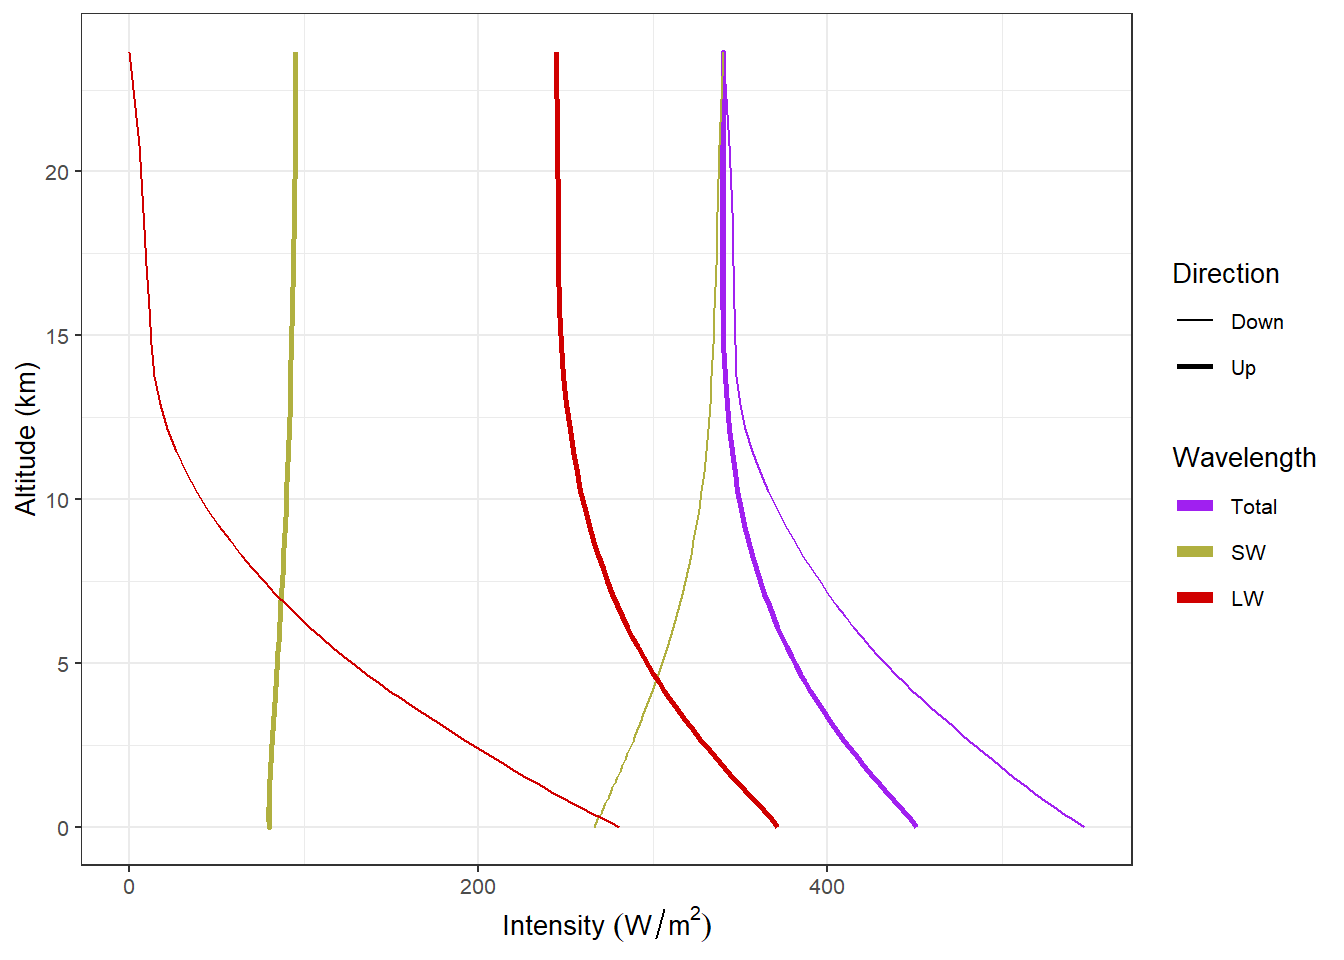
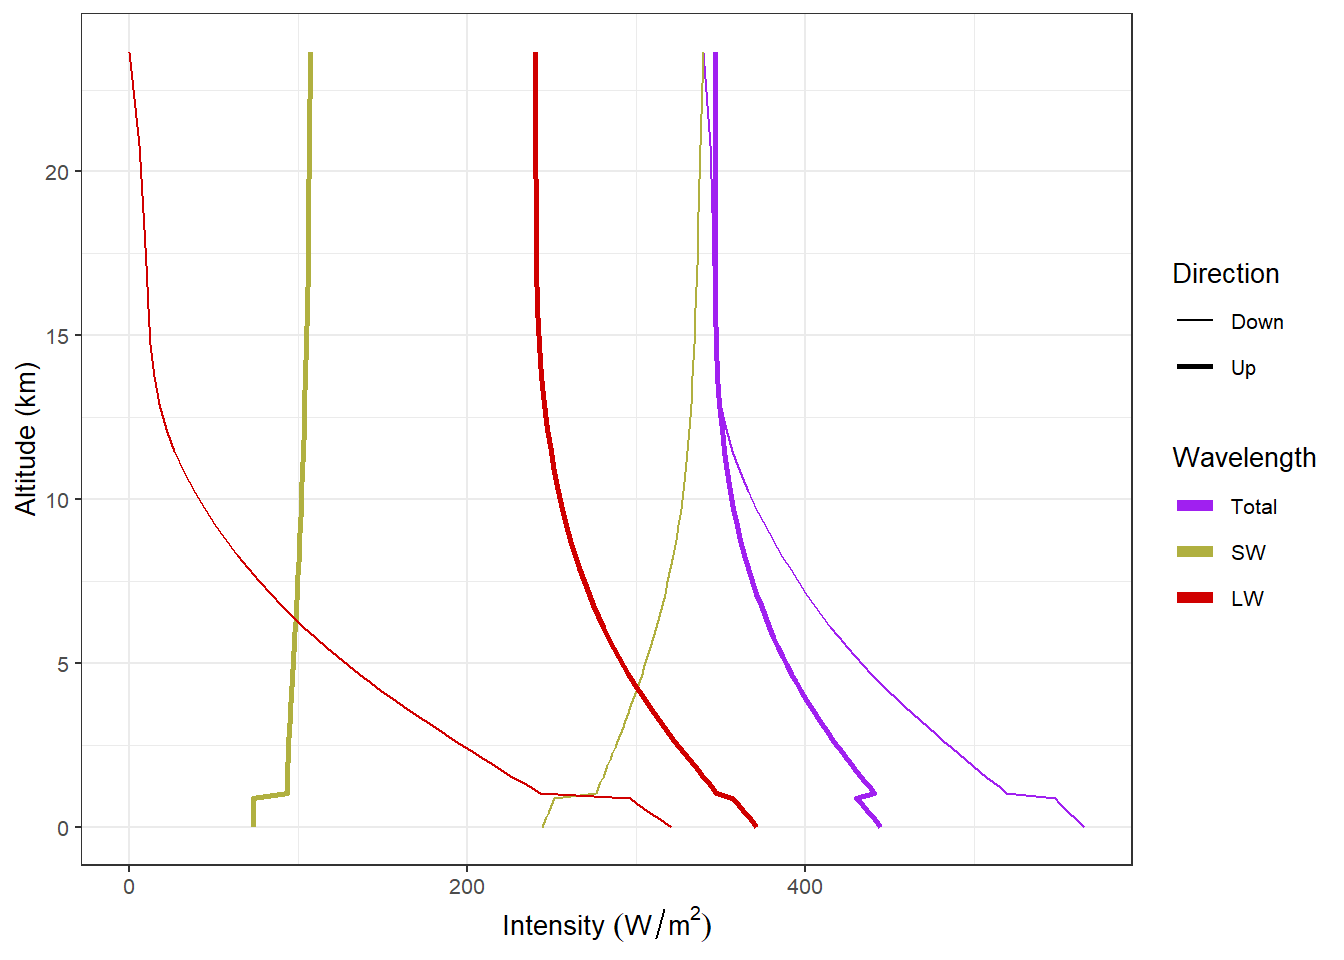
Updated lab #4 answers.

diff --git a/content/lab_solutions/lab_04_answers.html b/content/lab_solutions/lab_04_answers.html
@@ -274,17 +274,17 @@ I_surf_short_default = flux_surf_default$sw_down
 I_space_long_default = flux_space_default$lw_up
 I_space_short_default = flux_space_default$sw_up</code></pre>
 <p>The albedo was
-0.3,
-I<sub>in</sub> = 245. W/m<sup>2</sup>, and
-I<sub>out</sub> = 245. W/m<sup>2</sup>, so the heat
+0.30,
+I<sub>in</sub> = 244.8 W/m<sup>2</sup>, and
+I<sub>out</sub> = 244.8 W/m<sup>2</sup>, so the heat
 budget is balanced.</p>
 <p>Breaking down the heat flow into shortwave and longwave components, the
 heat absorbed by the ground consisted of
-281. W/m<sup>2</sup> of longwave radiation and
-266. W/m<sup>2</sup> of shortwwave radiation.
+280.9 W/m<sup>2</sup> of longwave radiation and
+266.3 W/m<sup>2</sup> of shortwwave radiation.
 The heat radiated out to space consisted of
-245. W/m<sup>2</sup> of longwave radiation and
-95.2 W/m<sup>2</sup> of shortwwave radiation.</p>
+244.8 W/m<sup>2</sup> of longwave radiation and
+95.20 W/m<sup>2</sup> of shortwwave radiation.</p>
 </div>
 <div id="a-asphalt-surface" class="section level4">
 <h4>2(a) <strong>Asphalt Surface</strong></h4>
@@ -319,28 +319,28 @@ Delta_I_space_short_asphalt = I_space_short_asphalt - I_space_short_default</cod
 which is a good deal less than the default
 albedo.
 This caused I<sub>in</sub> to increase from
-245. W/m<sup>2</sup> to
-297. W/m<sup>2</sup>.
+244.8 W/m<sup>2</sup> to
+296.8 W/m<sup>2</sup>.
 I<sub>out</sub> did not change and remained at
-245. W/m<sup>2</sup>.</p>
+244.8 W/m<sup>2</sup>.</p>
 <p>Breaking down the heat flow into shortwave and longwave components, the
 heat absorbed by the ground consisted of
-281. W/m<sup>2</sup> of longwave radiation,
+280.9 W/m<sup>2</sup> of longwave radiation,
 which was
 the same as
 in the default case, and
-262. W/m<sup>2</sup> of shortwwave radiation,
+262.4 W/m<sup>2</sup> of shortwwave radiation,
 which was
-4. W/m<sup>2</sup> less than
+3.9 W/m<sup>2</sup> less than
 in the default case.</p>
 <p>The heat radiated out to space consisted of
-245. W/m<sup>2</sup> of longwave radiation,
+244.8 W/m<sup>2</sup> of longwave radiation,
 which was
 the same as
 in the default case, and
-43. W/m<sup>2</sup> of shortwwave radiation,
+43.2 W/m<sup>2</sup> of shortwwave radiation,
 which was
-52. W/m<sup>2</sup> less than
+52.0 W/m<sup>2</sup> less than
 in the default case.</p>
 <p>Then I opened the interactive RRTM model, set the surface type to “Asphalt,”
 and manually adjusted the surface temperature until the heat budget was
@@ -353,13 +353,13 @@ asphalt_warming = run_rrtm(surface_type = &quot;Asphalt&quot;,
 Q_asphalt_warmed = asphalt_warming$Q
 Delta_T_asphalt = T_surface_asphalt - T_surface_default</code></pre>
 <p>The change in I<sub>in</sub> caused a heat-budget imbalance of
-52. W/m<sup>2</sup> going
+52.0 W/m<sup>2</sup> going
 into the Earth.
 To put the heat budget back into balance,
 I had to raise the surface temperature
-from 284. K to
-326. K, a change of
-41. K.</p>
+from 284.4 K to
+325.6 K, a change of
+41.2 K.</p>
 </div>
 <div id="b-concrete-surface" class="section level4">
 <h4>2(b) <strong>Concrete Surface</strong></h4>
@@ -388,29 +388,29 @@ Delta_I_surf_short_concrete = I_surf_short_concrete - I_surf_short_default
 Delta_I_space_long_concrete = I_space_long_concrete - I_space_long_default
 Delta_I_space_short_concrete = I_space_short_concrete - I_space_short_default</code></pre>
 <p>Where asphalt had a much higher albedo albedo for concrete is
-0.6 and this
+0.55 and this
 caused I<sub>in</sub> to decrease to
-184. W/m<sup>2</sup>.
+183.8 W/m<sup>2</sup>.
 I<sub>out</sub> did not change and remained at
-245. W/m<sup>2</sup>.</p>
+244.8 W/m<sup>2</sup>.</p>
 <p>Breaking down the heat flow into shortwave and longwave components, the
 heat absorbed by the ground consisted of
-281. W/m<sup>2</sup> of longwave radiation,
+280.9 W/m<sup>2</sup> of longwave radiation,
 which was
 the same as
 in the default case, and
-271. W/m<sup>2</sup> of shortwwave radiation,
+271.2 W/m<sup>2</sup> of shortwwave radiation,
 which was
-5. W/m<sup>2</sup> greater than
+4.9 W/m<sup>2</sup> greater than
 in the default case.</p>
 <p>The heat radiated out to space consisted of
-245. W/m<sup>2</sup> of longwave radiation,
+244.8 W/m<sup>2</sup> of longwave radiation,
 which was
 the same as
 in the default case, and
-156. W/m<sup>2</sup> of shortwwave radiation,
+156.2 W/m<sup>2</sup> of shortwwave radiation,
 which was
-61. W/m<sup>2</sup> greater than
+61.0 W/m<sup>2</sup> greater than
 in the default case.</p>
 <p>Then I manually adjusted the surface temperature in the interactive RRTM model
 until the heat out balanced the heat in.</p>
@@ -422,22 +422,22 @@ concrete_warming = run_rrtm(surface_type = &quot;Concrete&quot;,
 Q_concrete_warmed = concrete_warming$Q
 Delta_T_concrete = T_surface_concrete - T_surface_default</code></pre>
 <p>The change in I<sub>in</sub> caused a heat-budget imbalance of
--61. W/m<sup>2</sup> going
+-61.0 W/m<sup>2</sup> going
 out of the Earth.
 To put the heat budget back into balance,
 I had to lower the surface temperature to
-247. K, a change of
--37. K.</p>
+247.0 K, a change of
+-37.4 K.</p>
 </div>
 <div id="c-discussion" class="section level4">
 <h4>2(c) <strong>Discussion</strong></h4>
 <p>Covering the earth in asphalt caused the planet to warm up by
-41. K,
+41.2 K,
 so we could expect that covering
 a large part of a city in asphalt or similarly dark-colored material would
 cause the city’s temperature to rise.
 Conversely, covering the planet in concrete caused it to cool off by
-37. K, so replacing asphalt with
+37.4 K, so replacing asphalt with
 concrete in a city would cool the city off a good deal.
 This would provide cooler temperature for the people living in the city and
 would reduce the impact of global climate change.</p>
@@ -493,31 +493,31 @@ Delta_I_space_short_low = I_space_short_low - I_space_short_default
 
 Q_low = low_clouds$Q</code></pre>
 <p>Adding low clouds caused I<sub>in</sub> to decrease from
-245. W/m<sup>2</sup> to
-245. W/m<sup>2</sup>, a change of
-0 W/m<sup>2</sup>.
+244.8 W/m<sup>2</sup> to
+233.1 W/m<sup>2</sup>, a change of
+-11.7 W/m<sup>2</sup>.
 I<sub>out</sub> increased from
-245. W/m<sup>2</sup> to
-245. W/m<sup>2</sup>, a change of
-0 W/m<sup>2</sup>.</p>
+244.8 W/m<sup>2</sup> to
+240.2 W/m<sup>2</sup>, a change of
+-4.6 W/m<sup>2</sup>.</p>
 <p>Breaking down the heat flow into shortwave and longwave components, the
 heat absorbed by the ground consisted of
-281. W/m<sup>2</sup> of longwave radiation,
+320.8 W/m<sup>2</sup> of longwave radiation,
 which was
-the same as
+39.90 W/m<sup>2</sup> greater than
 in the default case, and
-266. W/m<sup>2</sup> of shortwwave radiation,
+244.7 W/m<sup>2</sup> of shortwwave radiation,
 which was
-the same as
+21.60 W/m<sup>2</sup> less than
 in the default case.</p>
 <p>The heat radiated out to space consisted of
-245. W/m<sup>2</sup> of longwave radiation,
+240.2 W/m<sup>2</sup> of longwave radiation,
 which was
-the same as
+4.600 W/m<sup>2</sup> less than
 in the default case, and
-95.2 W/m<sup>2</sup> of shortwwave radiation,
+106.9 W/m<sup>2</sup> of shortwwave radiation,
 which was
-the same as
+11.70 W/m<sup>2</sup> greater than
 in the default case.</p>
 <p>Nwxt, I opened the interactive RRTM model, set the surface type to “low,”
 and manually adjusted the surface temperature until the heat budget was
@@ -529,13 +529,13 @@ low_warming = run_rrtm(low_cloud_frac = 0.70, T_surface = T_surface_low)
 Q_low_warmed = low_warming$Q
 Delta_T_low = T_surface_low - T_surface_default</code></pre>
 <p>The change in I<sub>in</sub> caused a heat-budget imbalance of
-0 W/m<sup>2</sup> going
+-7.1 W/m<sup>2</sup> going
 out of the Earth.
 To put the heat budget back into balance,
 I had to lower the surface temperature
-from 284. K to
-280. K, a change of
--4. K.</p>
+from 284.4 K to
+280.4 K, a change of
+-4.0 K.</p>
 </div>
 <div id="b-high-clouds" class="section level4">
 <h4>3(b) <strong>High Clouds</strong></h4>
@@ -564,31 +564,31 @@ Delta_I_space_short_high = I_space_short_high - I_space_short_default
 
 Q_high = high_clouds$Q</code></pre>
 <p>Adding high clouds caused I<sub>in</sub> to decrease from
-245. W/m<sup>2</sup> to
-245. W/m<sup>2</sup>, a change of
-0 W/m<sup>2</sup>.
+244.8 W/m<sup>2</sup> to
+234.7 W/m<sup>2</sup>, a change of
+-10.1 W/m<sup>2</sup>.
 I<sub>out</sub> increased from
-245. W/m<sup>2</sup> to
-245. W/m<sup>2</sup>, a change of
-0 W/m<sup>2</sup>.</p>
+244.8 W/m<sup>2</sup> to
+212.0 W/m<sup>2</sup>, a change of
+-32.8 W/m<sup>2</sup>.</p>
 <p>Breaking down the heat flow into shortwave and longwave components, the
 heat absorbed by the ground consisted of
-281. W/m<sup>2</sup> of longwave radiation,
+283.9 W/m<sup>2</sup> of longwave radiation,
 which was
-the same as
+3.000 W/m<sup>2</sup> greater than
 in the default case, and
-266. W/m<sup>2</sup> of shortwwave radiation,
+255.4 W/m<sup>2</sup> of shortwwave radiation,
 which was
-the same as
+10.90 W/m<sup>2</sup> less than
 in the default case.</p>
 <p>The heat radiated out to space consisted of
-245. W/m<sup>2</sup> of longwave radiation,
+212.0 W/m<sup>2</sup> of longwave radiation,
 which was
-the same as
+32.80 W/m<sup>2</sup> less than
 in the default case, and
-95.2 W/m<sup>2</sup> of shortwwave radiation,
+105.3 W/m<sup>2</sup> of shortwwave radiation,
 which was
-the same as
+10.10 W/m<sup>2</sup> greater than
 in the default case.</p>
 <p>Next, I opened the interactive RRTM model, set the surface type to “high,”
 and manually adjusted the surface temperature until the heat budget was
@@ -600,13 +600,13 @@ high_warming = run_rrtm(high_cloud_frac = 0.20, T_surface = T_surface_high)
 Q_high_warmed = high_warming$Q
 Delta_T_high = T_surface_high - T_surface_default</code></pre>
 <p>The change in I<sub>in</sub> caused a heat-budget imbalance of
-0 W/m<sup>2</sup> going
-out of the Earth.
+22.7 W/m<sup>2</sup> going
+into the Earth.
 To put the heat budget back into balance,
 I had to raise the surface temperature
-from 284. K to
-298. K, a change of
-14. K.</p>
+from 284.4 K to
+298.0 K, a change of
+13.6 K.</p>
 </div>
 <div id="c-heat-flow" class="section level4">
 <h4>3(c) <strong>Heat Flow</strong></h4>
